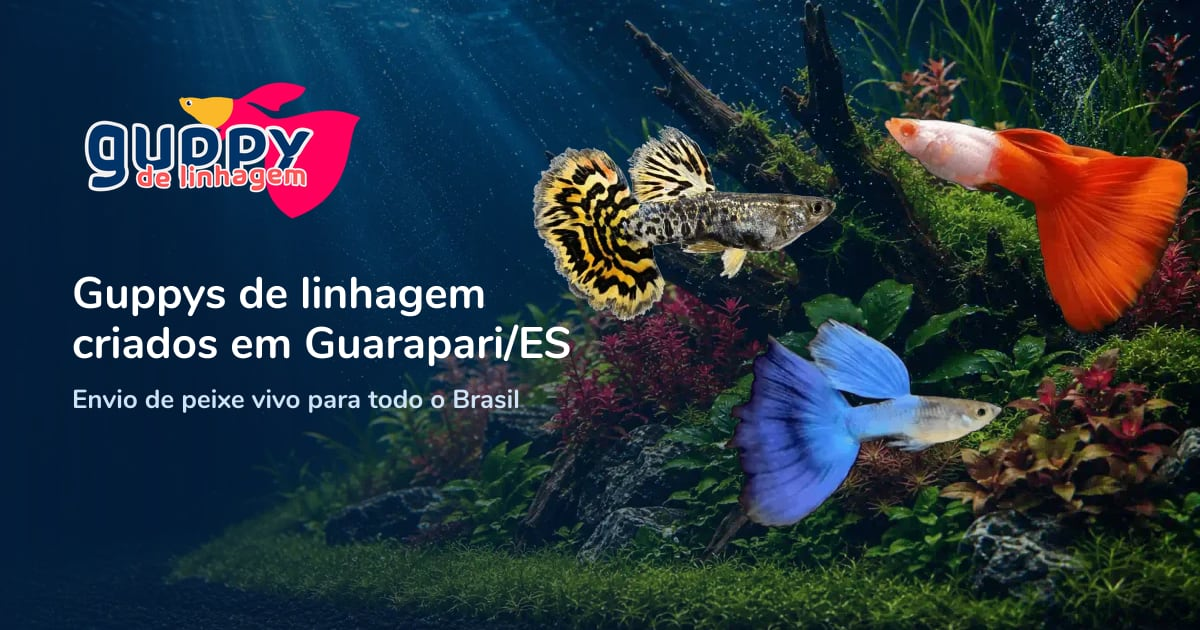
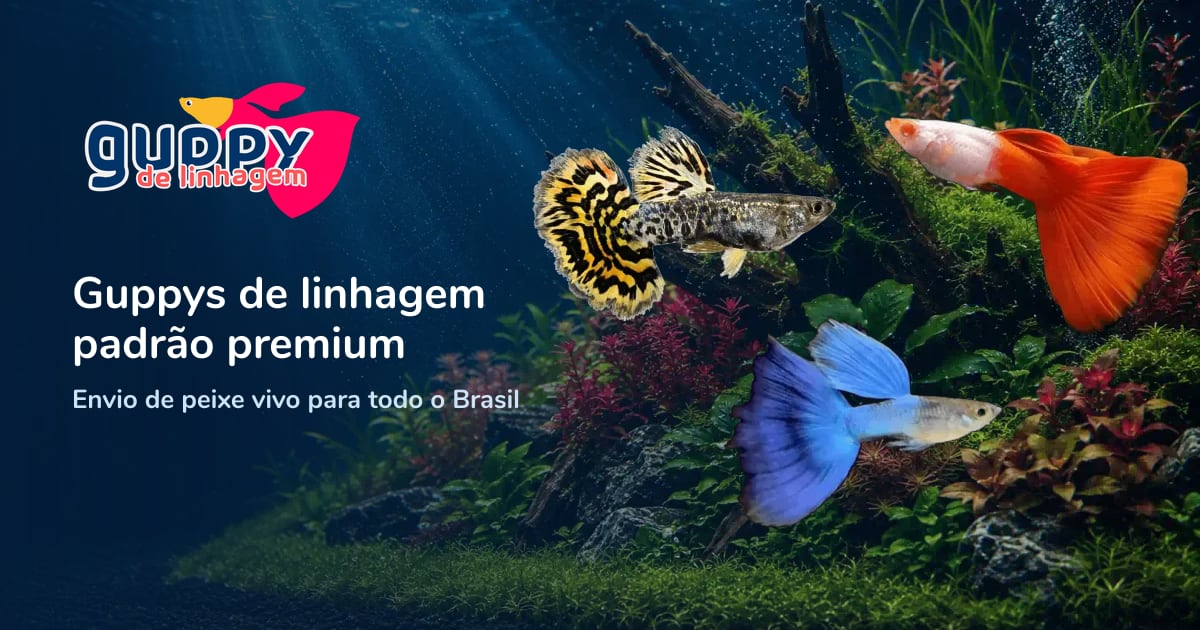
fix(compartilhar): cartão diz "padrão premium" no lugar da cidade
Texto do cartão de link a pedido. O ?v= na URL da imagem sobe junto:
WhatsApp e Facebook guardam a prévia pelo endereço, e sem trocar o
endereço quem compartilhar continua vendo a arte anterior por dias.

Changed region(s): [[0.0617, 0.5127, 0.4933, 0.573]]

diff --git a/app/layout.tsx b/app/layout.tsx
@@ -30,7 +30,7 @@ export const metadata: Metadata = {
       "Guppys de linhagem selecionados, saudáveis e com genética apurada. Campeões mundiais World Guppy Contest.",
     images: [
       {
-        url: "/images/og-home.jpg",
+        url: "/images/og-home.jpg?v=2",
         width: 1200,
         height: 630,
         type: "image/jpeg",
@@ -43,7 +43,7 @@ export const metadata: Metadata = {
     title: "Guppy de Linhagem | Guppys Premiados",
     description:
       "Guppys de linhagem selecionados, saudáveis e com genética apurada. Campeões mundiais World Guppy Contest.",
-    images: ["/images/og-home.jpg"],
+    images: ["/images/og-home.jpg?v=2"],
   },
   // Ícones de aba (navegador) e de dispositivo. O /favicon.ico vem da convenção
   // app/favicon.ico; aqui declaramos os PNG (navegadores modernos) e o ícone de

diff --git a/lib/seo.ts b/lib/seo.ts
@@ -10,8 +10,11 @@ export const SITE_NAME = "Guppy de Linhagem";
 // vez do banner), JPEG (WebP é o formato que o WhatsApp menos suporta em prévia)
 // e a arte do hero, que é a cara do site. Gerado de public/images/hero +
 // public/logo.png; para refazer, veja docs/og-cartao-compartilhamento.md.
+// O ?v= existe porque WhatsApp e Facebook guardam a prévia pela URL da imagem.
+// Trocou a arte? Suba o número, senão quem já compartilhou continua vendo a
+// versão velha por dias.
 export const OG_DEFAULT = {
-  url: "/images/og-home.jpg",
+  url: "/images/og-home.jpg?v=2",
   width: 1200,
   height: 630,
   type: "image/jpeg",
